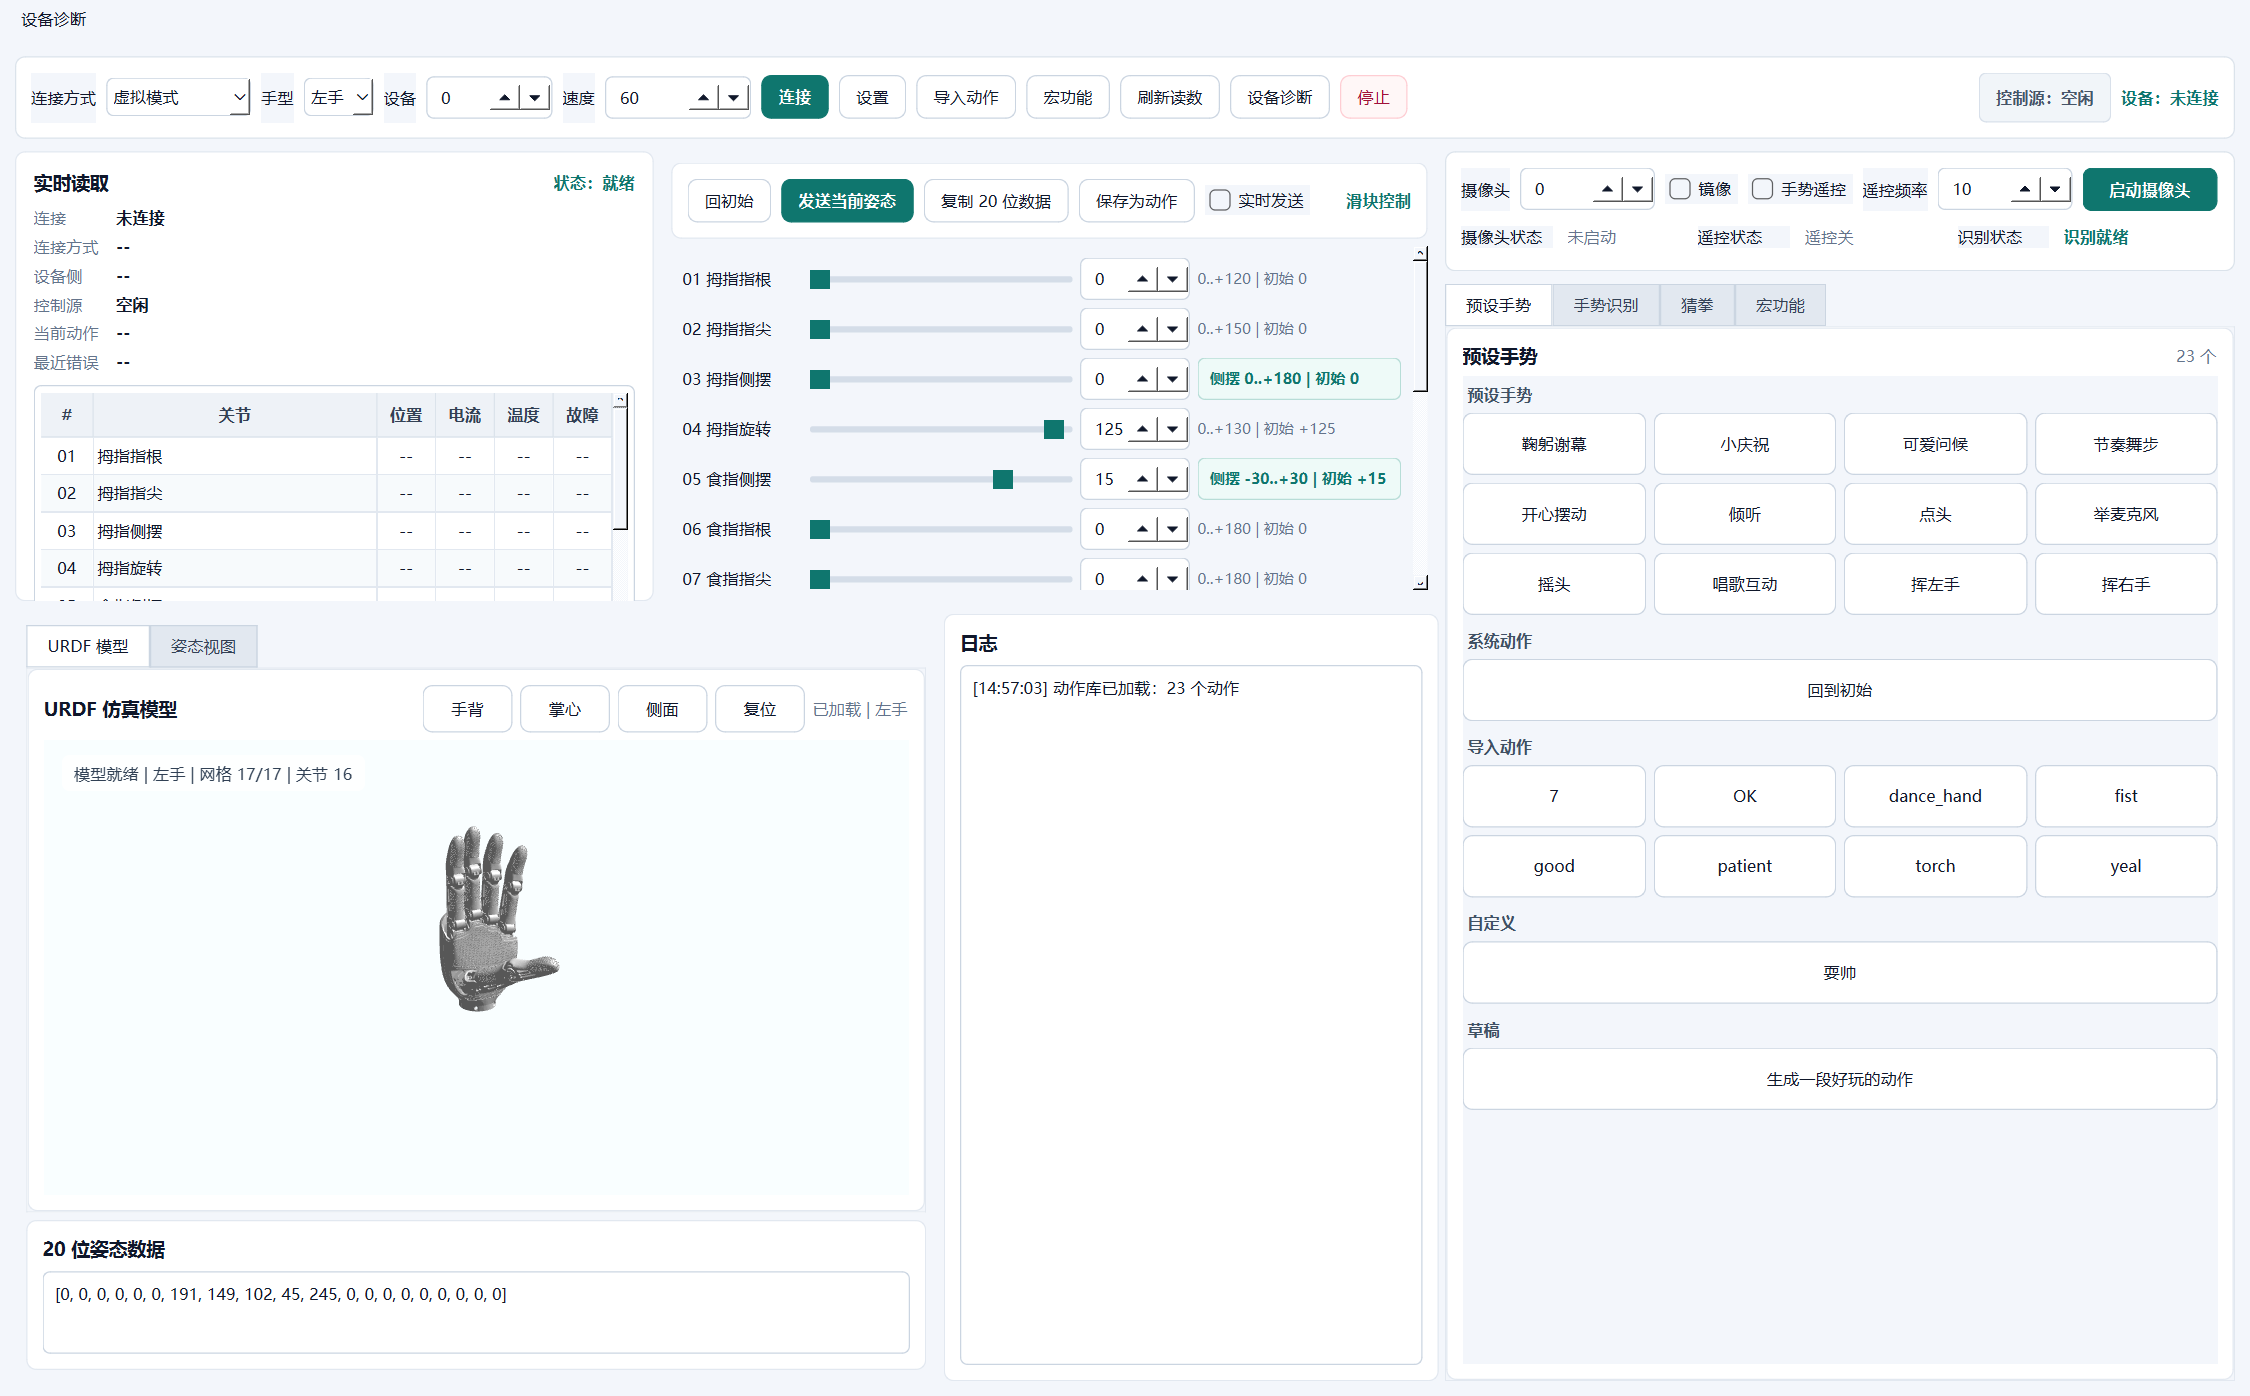
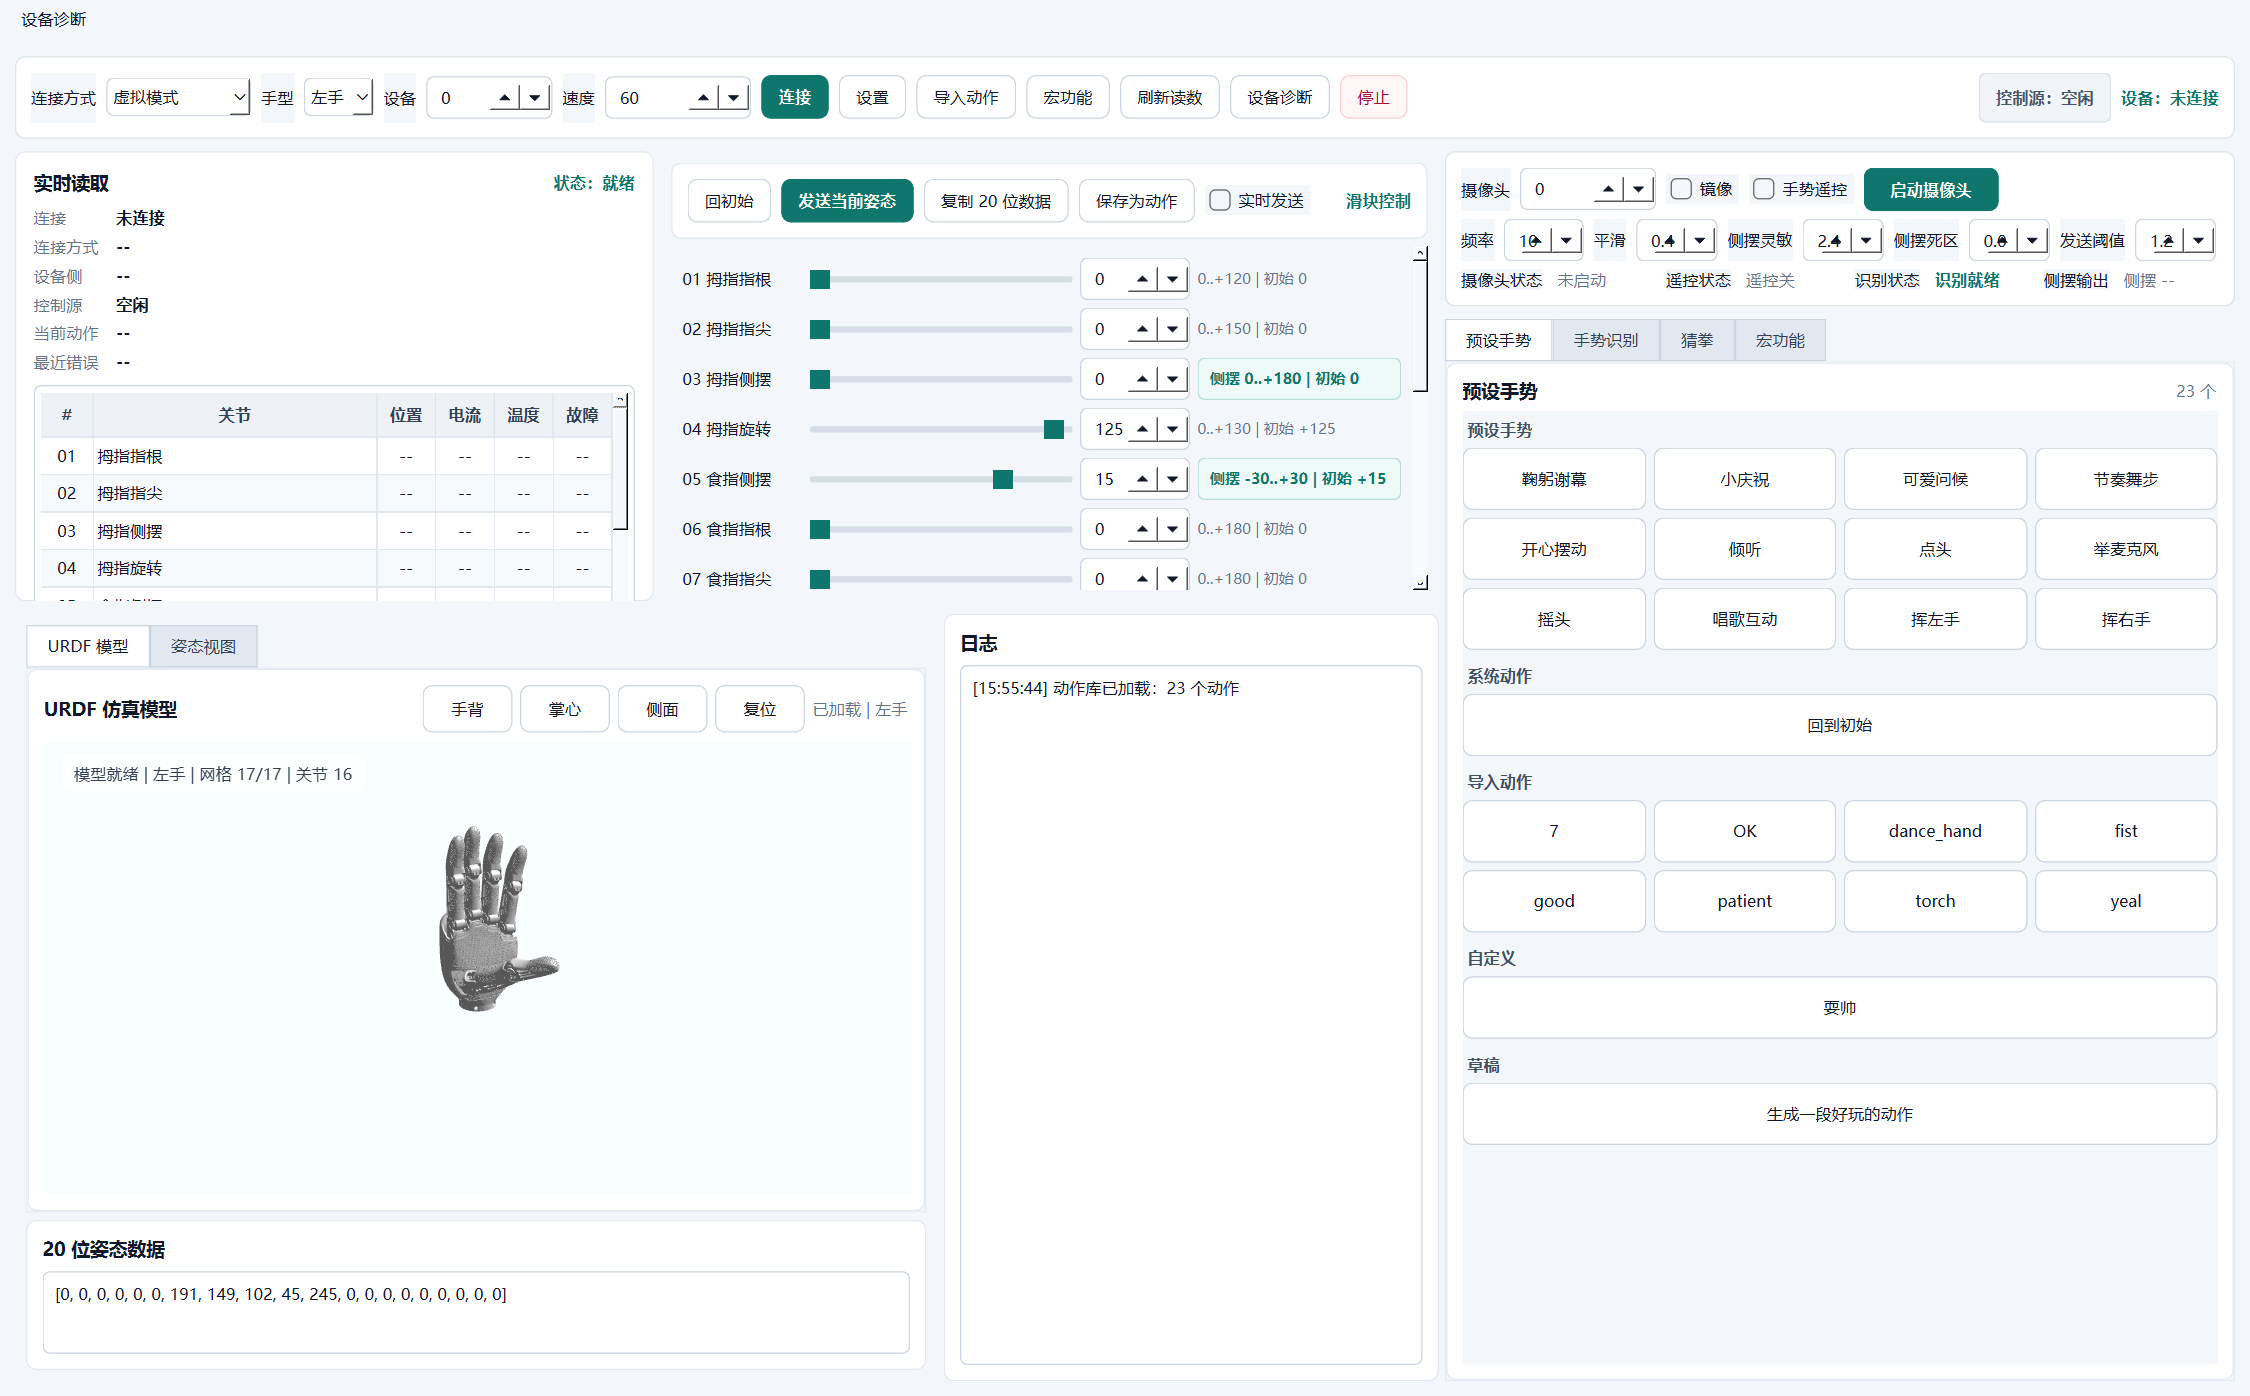
Tune teleop splay controls

diff --git a/src/xbotics_o20/desktop_console.py b/src/xbotics_o20/desktop_console.py
@@ -1961,11 +1961,6 @@ class MainWindow(QMainWindow):
         self._teleop_check = QCheckBox("手势遥控")
         self._teleop_check.stateChanged.connect(self._on_teleop_toggle)
         controls_layout.addWidget(self._teleop_check)
-        controls_layout.addWidget(QLabel("遥控频率"))
-        self._teleop_rate_spin = QSpinBox()
-        self._teleop_rate_spin.setRange(2, 20)
-        self._teleop_rate_spin.setValue(10)
-        controls_layout.addWidget(self._teleop_rate_spin)
         self._camera_toggle_btn = QPushButton("启动摄像头")
         self._camera_toggle_btn.setObjectName("Primary")
         self._camera_toggle_btn.setMinimumWidth(108)
@@ -1974,13 +1969,63 @@ class MainWindow(QMainWindow):
         controls_layout.addStretch(1)
         camera_layout.addWidget(controls)
 
+        teleop_params = QWidget()
+        teleop_params.setObjectName("Transparent")
+        params_layout = QHBoxLayout(teleop_params)
+        params_layout.setContentsMargins(0, 0, 0, 0)
+        params_layout.setSpacing(8)
+        params_layout.addWidget(QLabel("频率"))
+        self._teleop_rate_spin = QSpinBox()
+        self._teleop_rate_spin.setRange(2, 20)
+        self._teleop_rate_spin.setValue(10)
+        self._teleop_rate_spin.setMaximumWidth(64)
+        params_layout.addWidget(self._teleop_rate_spin)
+        params_layout.addWidget(QLabel("平滑"))
+        self._teleop_smoothing_spin = QDoubleSpinBox()
+        self._teleop_smoothing_spin.setRange(0.10, 1.00)
+        self._teleop_smoothing_spin.setDecimals(2)
+        self._teleop_smoothing_spin.setSingleStep(0.05)
+        self._teleop_smoothing_spin.setValue(0.45)
+        self._teleop_smoothing_spin.setMaximumWidth(76)
+        self._teleop_smoothing_spin.setToolTip("手势遥控位置平滑系数，数值越大跟手越快")
+        params_layout.addWidget(self._teleop_smoothing_spin)
+        params_layout.addWidget(QLabel("侧摆灵敏"))
+        self._teleop_splay_gain_spin = QDoubleSpinBox()
+        self._teleop_splay_gain_spin.setRange(0.50, 4.00)
+        self._teleop_splay_gain_spin.setDecimals(2)
+        self._teleop_splay_gain_spin.setSingleStep(0.10)
+        self._teleop_splay_gain_spin.setValue(2.40)
+        self._teleop_splay_gain_spin.setMaximumWidth(76)
+        self._teleop_splay_gain_spin.setToolTip("手势侧摆角到关节侧摆的映射倍率")
+        params_layout.addWidget(self._teleop_splay_gain_spin)
+        params_layout.addWidget(QLabel("侧摆死区"))
+        self._teleop_splay_deadzone_spin = QDoubleSpinBox()
+        self._teleop_splay_deadzone_spin.setRange(0.00, 8.00)
+        self._teleop_splay_deadzone_spin.setDecimals(1)
+        self._teleop_splay_deadzone_spin.setSingleStep(0.5)
+        self._teleop_splay_deadzone_spin.setValue(0.0)
+        self._teleop_splay_deadzone_spin.setMaximumWidth(72)
+        self._teleop_splay_deadzone_spin.setToolTip("小于该角度的手指侧摆会被忽略")
+        params_layout.addWidget(self._teleop_splay_deadzone_spin)
+        params_layout.addWidget(QLabel("发送阈值"))
+        self._teleop_send_delta_spin = QDoubleSpinBox()
+        self._teleop_send_delta_spin.setRange(0.00, 6.00)
+        self._teleop_send_delta_spin.setDecimals(1)
+        self._teleop_send_delta_spin.setSingleStep(0.2)
+        self._teleop_send_delta_spin.setValue(1.2)
+        self._teleop_send_delta_spin.setMaximumWidth(72)
+        self._teleop_send_delta_spin.setToolTip("姿态变化小于该角度时不重复发送")
+        params_layout.addWidget(self._teleop_send_delta_spin)
+        params_layout.addStretch(1)
+        camera_layout.addWidget(teleop_params)
+
         status_row = QWidget()
         status_row.setObjectName("Transparent")
         status_layout = QGridLayout(status_row)
         status_layout.setContentsMargins(0, 0, 0, 0)
         status_layout.setHorizontalSpacing(12)
         status_layout.setVerticalSpacing(0)
-        status_layout.setColumnStretch(5, 1)
+        status_layout.setColumnStretch(7, 1)
         self._camera_status = QLabel("未启动")
         self._camera_status.setObjectName("Subtle")
         self._camera_status.setMinimumWidth(92)
@@ -1992,7 +2037,11 @@ class MainWindow(QMainWindow):
         self._mediapipe_status = QLabel()
         self._mediapipe_status.setMinimumWidth(124)
         self._refresh_mediapipe_status()
-        for label in (self._camera_status, self._teleop_status, self._mediapipe_status):
+        self._teleop_splay_status = QLabel("侧摆 --")
+        self._teleop_splay_status.setObjectName("Subtle")
+        self._teleop_splay_status.setMinimumWidth(118)
+        self._teleop_splay_status.setToolTip("手势遥控最近一次侧摆输出")
+        for label in (self._camera_status, self._teleop_status, self._mediapipe_status, self._teleop_splay_status):
             label.setSizePolicy(QSizePolicy.Policy.Fixed, QSizePolicy.Policy.Fixed)
             label.setTextInteractionFlags(Qt.TextInteractionFlag.NoTextInteraction)
         status_layout.addWidget(QLabel("摄像头状态"), 0, 0)
@@ -2001,6 +2050,8 @@ class MainWindow(QMainWindow):
         status_layout.addWidget(self._teleop_status, 0, 3)
         status_layout.addWidget(QLabel("识别状态"), 0, 4)
         status_layout.addWidget(self._mediapipe_status, 0, 5)
+        status_layout.addWidget(QLabel("侧摆输出"), 0, 6)
+        status_layout.addWidget(self._teleop_splay_status, 0, 7)
         camera_layout.addWidget(status_row)
         return camera_bar
 
@@ -2714,6 +2765,19 @@ class MainWindow(QMainWindow):
         self._teleop_status.setText(_teleop_status_label(text))
         self._teleop_status.setToolTip(text)
 
+    def _update_teleop_splay_status(self, positions: list[float] | None) -> None:
+        if not hasattr(self, "_teleop_splay_status"):
+            return
+        if positions is None:
+            self._teleop_splay_status.setText("侧摆 --")
+            self._teleop_splay_status.setToolTip("手势遥控最近一次侧摆输出")
+            return
+        indexes = (4, 7, 10, 13)
+        values = [positions[index] for index in indexes]
+        text = " ".join(f"{value:+.0f}" for value in values)
+        self._teleop_splay_status.setText(text)
+        self._teleop_splay_status.setToolTip("食指 / 中指 / 无名指 / 小指侧摆输出：" + text)
+
     def _set_camera_status(self, text: str) -> None:
         self._camera_status.setText(_camera_status_label(text))
         self._camera_status.setToolTip(text)
@@ -2771,6 +2835,7 @@ class MainWindow(QMainWindow):
         self._camera_index_spin.setEnabled(True)
         self._set_camera_status("状态：未启动")
         self._teleop_last_pose = None
+        self._update_teleop_splay_status(None)
         if self._teleop_check.isChecked():
             self._update_teleop_status("遥控：等待摄像头", ok=False)
         else:
@@ -2814,8 +2879,10 @@ class MainWindow(QMainWindow):
             pose: TeleopPose = landmarks_to_o20_positions(
                 detection.landmarks,
                 previous=self._teleop_last_pose,
-                smoothing=0.45,
+                smoothing=self._teleop_smoothing_spin.value(),
                 handedness=getattr(detection, "handedness", None),
+                splay_gain=self._teleop_splay_gain_spin.value(),
+                splay_deadzone_deg=self._teleop_splay_deadzone_spin.value(),
             )
         except Exception as exc:
             self._update_teleop_status(f"遥控：姿态解析失败 {exc}", ok=False)
@@ -2823,7 +2890,7 @@ class MainWindow(QMainWindow):
 
         if self._teleop_last_pose is not None:
             max_delta = max(abs(a - b) for a, b in zip(pose.positions, self._teleop_last_pose))
-            if max_delta < 1.2:
+            if max_delta < self._teleop_send_delta_spin.value():
                 self._teleop_last_send_at = now
                 return
 
@@ -2840,6 +2907,7 @@ class MainWindow(QMainWindow):
             return
         self._teleop_last_pose = sent_positions
         gesture = getattr(detection, "gesture", None) or "手部姿态"
+        self._update_teleop_splay_status(sent_positions)
         self._update_teleop_status(f"遥控：已发送 {gesture}", ok=True)
 
     def _on_mirror_changed(self) -> None:

diff --git a/tests/test_desktop_console.py b/tests/test_desktop_console.py
@@ -2,6 +2,7 @@ from __future__ import annotations
 
 import os
 import time
+from types import SimpleNamespace
 
 import pytest
 
@@ -417,5 +418,41 @@ def test_action_control_source_makes_manual_editor_read_only(tmp_path) -> None:
     assert window._info_panel._summary["控制源"].text() == "空闲"
     assert window._send_pose_btn.isEnabled() is True
     assert all(slider.isEnabled() for slider in window._joint_editor._sliders)
+    window.close()
+    window.deleteLater()
+
+
+def test_teleop_parameters_are_used_for_frame_mapping(tmp_path, monkeypatch) -> None:
+    _app()
+    window = MainWindow(config_path=tmp_path / "config.json")
+    backend = FakeSendBackend()
+    window._backend = backend
+    window._latest_state = _safe_state()
+    window._camera_service = SimpleNamespace(is_running=True, last_error="", stop=lambda: None)
+    window._teleop_smoothing_spin.setValue(0.70)
+    window._teleop_splay_gain_spin.setValue(3.10)
+    window._teleop_splay_deadzone_spin.setValue(2.0)
+    window._teleop_send_delta_spin.setValue(0.0)
+    captured: dict[str, float] = {}
+    positions = list(HOME_POSITIONS)
+    positions[4] = -12
+    positions[7] = 3
+    positions[10] = -5
+    positions[13] = -18
+
+    def fake_mapper(_landmarks, **kwargs):
+        captured.update(kwargs)
+        return desktop_console.TeleopPose(positions=positions, flexions={})
+
+    monkeypatch.setattr(desktop_console, "landmarks_to_o20_positions", fake_mapper)
+
+    window._teleop_check.setChecked(True)
+    window._handle_teleop_frame(SimpleNamespace(landmarks=[object()] * 21, handedness="Left", gesture="Paper"))
+
+    assert captured["smoothing"] == 0.70
+    assert captured["splay_gain"] == 3.10
+    assert captured["splay_deadzone_deg"] == 2.0
+    assert backend.sent[-1][0] == positions
+    assert window._teleop_splay_status.text() == "-12 +3 -5 -18"
     window.close()
     window.deleteLater()

diff --git a/src/xbotics_o20/teleop.py b/src/xbotics_o20/teleop.py
@@ -139,10 +139,25 @@ def _finger_splay_angle(landmarks: Sequence[Any], mcp: int, pip: int, basis) -> 
     return math.degrees(math.atan2(lateral, max(0.15, forward)))
 
 
-def _joint_from_splay(index: int, angle: float, flexion: float, *, invert: bool = False) -> float:
+def _joint_from_splay(
+    index: int,
+    angle: float,
+    flexion: float,
+    *,
+    invert: bool = False,
+    gain: float = 2.4,
+    deadzone_deg: float = 0.0,
+) -> float:
     signed = -angle if invert else angle
+    deadzone = max(0.0, float(deadzone_deg))
+    if abs(signed) <= deadzone:
+        signed = 0.0
+    elif signed > 0:
+        signed -= deadzone
+    else:
+        signed += deadzone
     joint = JOINTS[index]
-    raw = max(joint.min_value, min(joint.max_value, joint.home + signed * 2.4))
+    raw = max(joint.min_value, min(joint.max_value, joint.home + signed * max(0.0, float(gain))))
     damped = _lerp(raw, joint.home, max(0.0, min(0.65, flexion * 0.65)))
     return max(joint.min_value, min(joint.max_value, damped))
 
@@ -153,6 +168,8 @@ def landmarks_to_o20_positions(
     previous: Sequence[float] | None = None,
     smoothing: float = 0.45,
     handedness: str | None = None,
+    splay_gain: float = 2.4,
+    splay_deadzone_deg: float = 0.0,
 ) -> TeleopPose:
     if len(landmarks) < 21:
         raise ValueError("MediaPipe 手部骨架必须包含 21 个点")
@@ -175,19 +192,19 @@ def landmarks_to_o20_positions(
     positions[2] = _joint_from_flexion(2, thumb_base)
     positions[3] = _joint_from_flexion(3, thumb_base)
 
-    positions[4] = _joint_from_splay(4, index_splay, index_base)
+    positions[4] = _joint_from_splay(4, index_splay, index_base, gain=splay_gain, deadzone_deg=splay_deadzone_deg)
     positions[5] = _joint_from_flexion(5, index_base)
     positions[6] = _joint_from_flexion(6, index_tip)
 
-    positions[7] = _joint_from_splay(7, middle_splay, middle_base)
+    positions[7] = _joint_from_splay(7, middle_splay, middle_base, gain=splay_gain, deadzone_deg=splay_deadzone_deg)
     positions[8] = _joint_from_flexion(8, middle_base)
     positions[9] = _joint_from_flexion(9, middle_tip)
 
-    positions[10] = _joint_from_splay(10, ring_splay, ring_base)
+    positions[10] = _joint_from_splay(10, ring_splay, ring_base, gain=splay_gain, deadzone_deg=splay_deadzone_deg)
     positions[11] = _joint_from_flexion(11, ring_base)
     positions[12] = _joint_from_flexion(12, ring_tip)
 
-    positions[13] = _joint_from_splay(13, pinky_splay, pinky_base, invert=True)
+    positions[13] = _joint_from_splay(13, pinky_splay, pinky_base, invert=True, gain=splay_gain, deadzone_deg=splay_deadzone_deg)
     positions[14] = _joint_from_flexion(14, pinky_base)
     positions[15] = _joint_from_flexion(15, pinky_tip)
 

diff --git a/tests/test_teleop.py b/tests/test_teleop.py
@@ -74,3 +74,15 @@ def test_teleop_maps_finger_splay_to_abduction_joints() -> None:
     assert spread.positions[13] < neutral.positions[13]
     assert JOINTS[4].min_value <= spread.positions[4] <= JOINTS[4].max_value
     assert JOINTS[13].min_value <= spread.positions[13] <= JOINTS[13].max_value
+
+
+def test_teleop_splay_gain_and_deadzone_are_configurable() -> None:
+    landmarks = _spread_hand(index_pip_x=-0.38, pinky_pip_x=0.38)
+    base = landmarks_to_o20_positions(landmarks, smoothing=1.0, splay_gain=2.4, splay_deadzone_deg=0.0)
+    boosted = landmarks_to_o20_positions(landmarks, smoothing=1.0, splay_gain=3.2, splay_deadzone_deg=0.0)
+    damped = landmarks_to_o20_positions(landmarks, smoothing=1.0, splay_gain=3.2, splay_deadzone_deg=8.0)
+
+    assert boosted.positions[4] < base.positions[4]
+    assert boosted.positions[13] < base.positions[13]
+    assert damped.positions[4] > boosted.positions[4]
+    assert damped.positions[13] > boosted.positions[13]

diff --git a/src/xbotics_o20/__init__.py b/src/xbotics_o20/__init__.py
@@ -1,4 +1,4 @@
 """Xbotics O20 control helpers."""
 
 __all__ = ["__version__"]
-__version__ = "0.1.3"
+__version__ = "0.1.4"

diff --git a/README.md b/README.md
@@ -12,6 +12,7 @@
 - 同步反馈：URDF 模型、姿态视图、滑块和 20 位姿态数据保持同步。
 - 视角控制：URDF 模型支持手背、掌心、侧面和复位视角。
 - 手势遥控：摄像头识别手部姿态，并映射到 O20 关节空间。
+- 遥控调参：可调整平滑、侧摆灵敏度、侧摆死区和发送阈值，并显示最近侧摆输出。
 - 动作系统：预设手势、txt 动作导入、自定义动作和宏队列。
 - 安全防护：步长限制、电流/温度保护、停止请求和控制源互斥。
 - 诊断工具：检查运行环境、CANFD 运行文件、设备响应和动作库格式。
@@ -62,6 +63,7 @@ PYTHONPATH=src python -m xbotics_o20 canfd-diag --canfd-device 0
 - 开启手势遥控、动作播放或宏执行时，滑块切换为“实时读数”，只跟随当前姿态显示，不再接受手动抢控制。
 - 顶部和读数面板会显示当前控制源；控制源为空闲时滑块才负责控制发送。
 - 侧摆关节滑块会标注运动范围和初始位置，便于确认负值、正值和回初始位置。
+- 手势遥控参数默认保持原有控制手感；侧摆识别偏弱时先提高“侧摆灵敏”，抖动明显时再增加“侧摆死区”或降低“发送阈值”。
 - 手动实时、手势遥控、动作播放、宏执行同一时间只能有一个发送源。
 - 默认回初始采用中性侧摆姿态；避让姿态保护为显式开关，默认不压住食指/小指侧摆。
 - 每次发送都会经过关节范围、最大步长、电流和温度保护；触发保护后会停止当前实时控制。